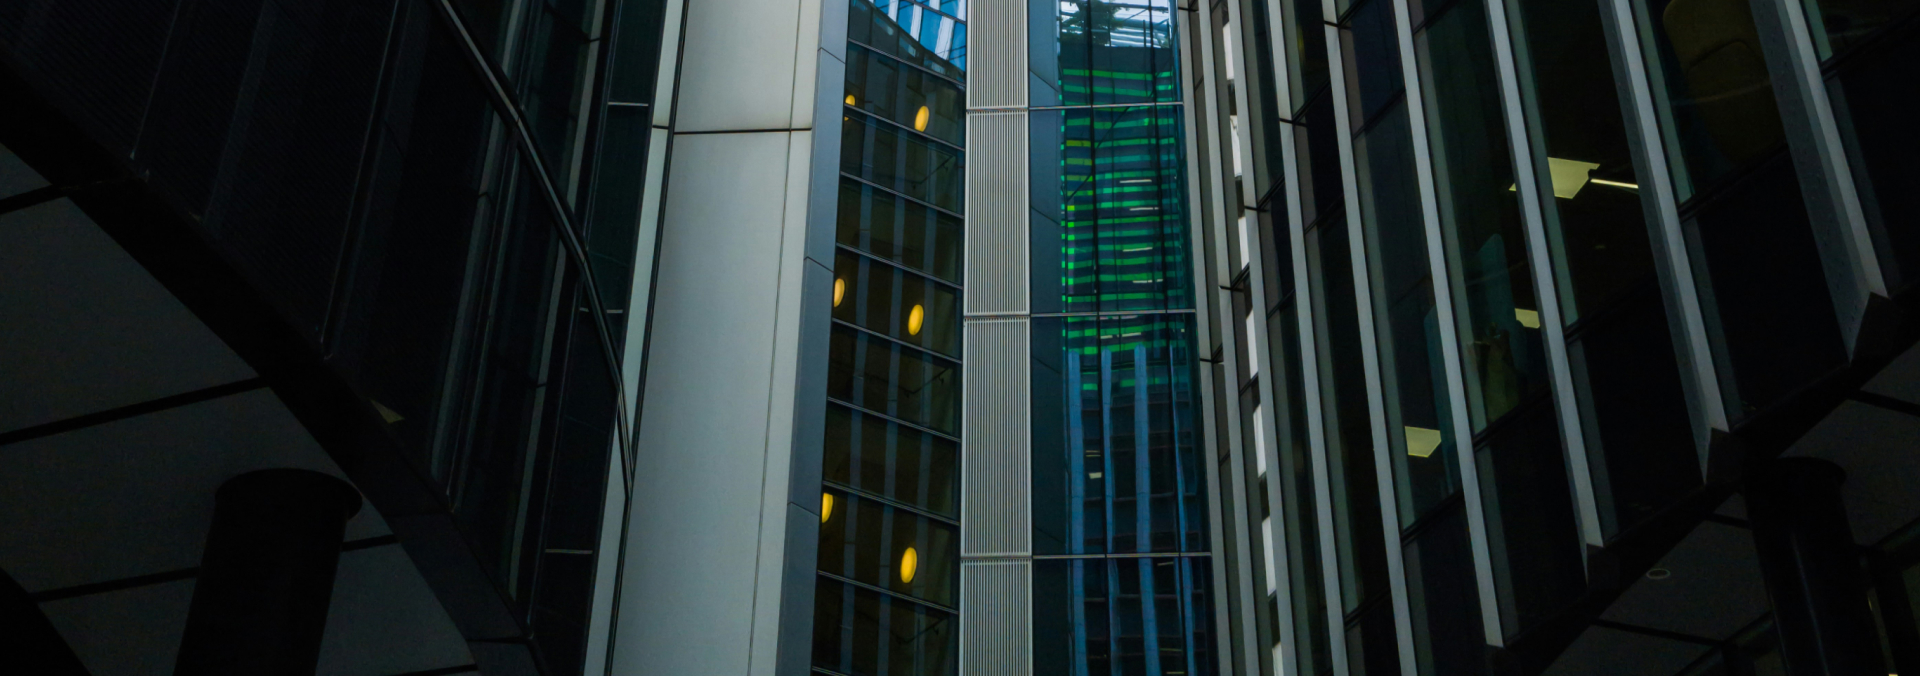
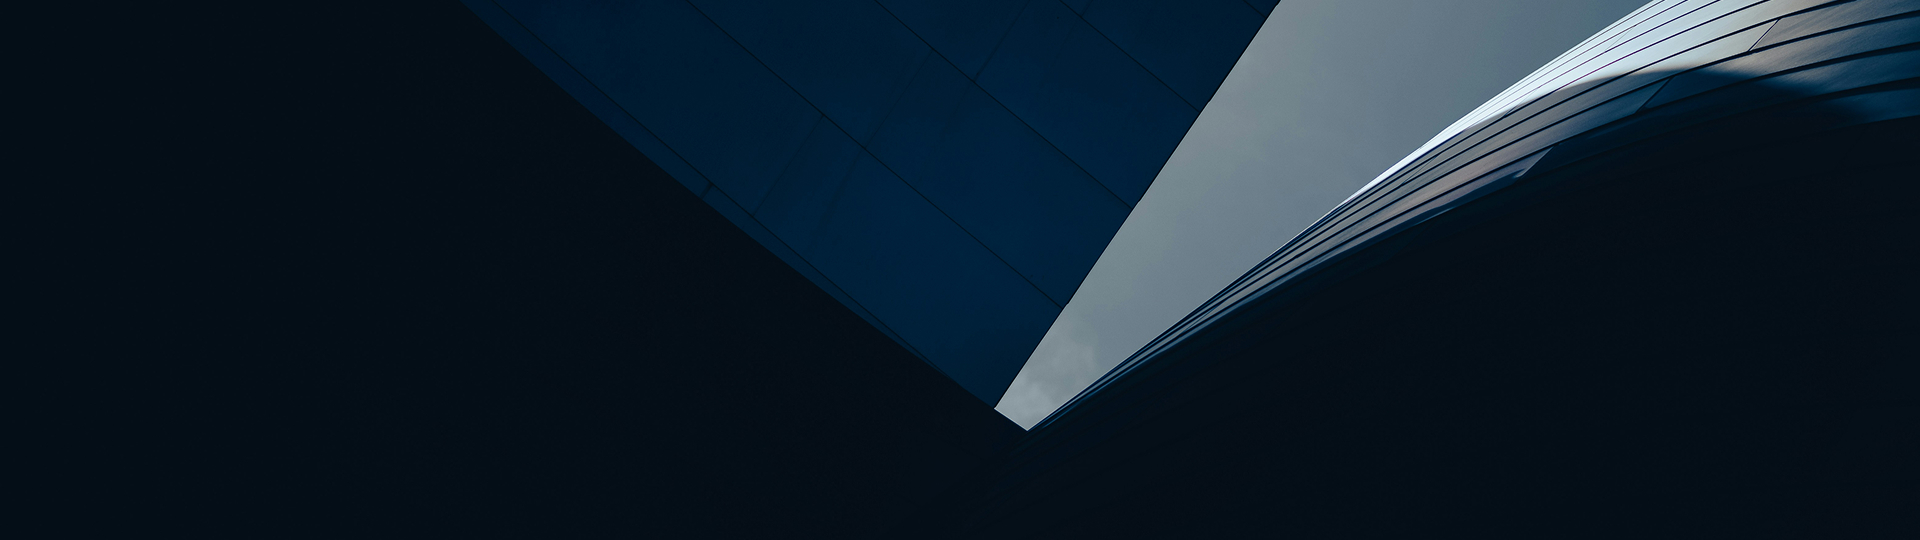
인프라 삭제+사진 바꾸기+아이콘 넣기

diff --git a/contents/careers.html b/contents/careers.html
@@ -10,7 +10,7 @@
     <script src="../js/contents.js"></script>
     <link rel="stylesheet" href="../css/sub.css">
     <link rel="shortcut icon" type="image/x-icon" href="../favicon.svg">
-    <title>보유장비 > infra - 에이티비</title>
+    <title>채용절차/인재상 > 채용안내 - 에이티비</title>
     <!-- 서브페이지의 타이틀에는 현재메뉴명 > 상위메뉴명 - 사이트명 -->
 </head>
 <body>
@@ -43,13 +43,6 @@
                                 <li><a href="biz03.html"><span>반도체 장비/공장 자동화</span></a></li>
                                 <li><a href="biz04.html"><span>시험장치/치공구</span></a></li>
                                 <li><a href="biz05.html"><span>기타보유기술</span></a></li>
-                            </ul>
-                        </li>
-                        <li>
-                            <a href="infra.html"><span>INFRA</span></a>
-                            <ul class="depth2">
-                                <li><a href="infra.html"><span>보유장비</span></a></li>
-                                <li><a href="view.html"><span>사업장 전경</span></a></li>
                             </ul>
                         </li>
                         <li>
@@ -97,7 +90,7 @@
 
                                 <li>
                                     <div class="career_step_icon">
-                                        <img src="../images/contents/career_icon01.png" alt="">
+                                        <img src="../images/contents/career_icon01.svg" alt="">
                                     </div>
                                     <span class="career_step_num">01</span>
                                     <strong>지원서 접수</strong>
@@ -105,7 +98,7 @@
 
                                 <li>
                                     <div class="career_step_icon">
-                                        <img src="../images/contents/career_icon02.png" alt="">
+                                        <img src="../images/contents/career_icon02.svg" alt="">
                                     </div>
                                     <span class="career_step_num">02</span>
                                     <strong>서류 전형</strong>
@@ -113,7 +106,7 @@
 
                                 <li>
                                     <div class="career_step_icon">
-                                        <img src="../images/contents/career_icon03.png" alt="">
+                                        <img src="../images/contents/career_icon03.svg" alt="">
                                     </div>
                                     <span class="career_step_num">03</span>
                                     <strong>면접 전형</strong>
@@ -121,7 +114,7 @@
 
                                 <li>
                                     <div class="career_step_icon">
-                                        <img src="../images/contents/career_icon04.png" alt="">
+                                        <img src="../images/contents/career_icon04.svg" alt="">
                                     </div>
                                     <span class="career_step_num">04</span>
                                     <strong>최종 합격</strong>

diff --git a/contents/recruit.html b/contents/recruit.html
@@ -10,7 +10,7 @@
     <script src="../js/contents.js"></script>
     <link rel="stylesheet" href="../css/sub.css">
     <link rel="shortcut icon" type="image/x-icon" href="../favicon.svg">
-    <title>보유장비 > infra - 에이티비</title>
+    <title>채용공고 > 채용안내 - 에이티비</title>
     <!-- 서브페이지의 타이틀에는 현재메뉴명 > 상위메뉴명 - 사이트명 -->
 </head>
 <body>
@@ -43,13 +43,6 @@
                                 <li><a href="biz03.html"><span>반도체 장비/공장 자동화</span></a></li>
                                 <li><a href="biz04.html"><span>시험장치/치공구</span></a></li>
                                 <li><a href="biz05.html"><span>기타보유기술</span></a></li>
-                            </ul>
-                        </li>
-                        <li>
-                            <a href="infra.html"><span>INFRA</span></a>
-                            <ul class="depth2">
-                                <li><a href="infra.html"><span>보유장비</span></a></li>
-                                <li><a href="view.html"><span>사업장 전경</span></a></li>
                             </ul>
                         </li>
                         <li>

diff --git a/index.html b/index.html
@@ -51,13 +51,6 @@
                             </ul>
                         </li>
                         <li>
-                            <a href="contents/infra.html"><span>INFRA</span></a>
-                            <ul class="depth2">
-                                <li><a href="contents/infra.html"><span>보유장비</span></a></li>
-                                <li><a href="contents/view.html"><span>사업장 전경</span></a></li>
-                            </ul>
-                        </li>
-                        <li>
                             <a href="contents/careers.html"><span>CAREERS</span></a>
                             <ul class="depth2">
                                 <li><a href="contents/careers.html"><span>채용안내</span></a></li>

diff --git a/css/sub.css b/css/sub.css
@@ -94,7 +94,7 @@ header .gnb .gnb_wrap ul.depth1 > li.active.over > ul.depth2 > li.active > a {
     font-size: 2.6471rem; /*45px*/
     font-weight: 700;
     line-height: 1.2;
-    padding: 7.7333em 0 0 0; /*348px- 45px 기준으로 환산*/
+    padding: 7em 0 0 0; /*348px- 45px 기준으로 환산*/
 }
 .sub_visual .snb {
     position: absolute; /*sub_visual을 기준으로 정렬*/
@@ -145,7 +145,7 @@ header .gnb .gnb_wrap ul.depth1 > li.active.over > ul.depth2 > li.active > a {
 @media screen and (max-width:1300px){ /*16px*/
     .sub_visual .sub_txt span {
         font-size: 2.5rem; /*40px*/
-        padding: 9em 0 0 0; /*360px- 40px 기준으로 환산*/
+        padding: 7em 0 0 0; /*360px- 40px 기준으로 환산*/
     }
 } /* @media */
 

diff --git a/contents/biz01.html b/contents/biz01.html
@@ -46,13 +46,6 @@
                             </ul>
                         </li>
                         <li>
-                            <a href="infra.html"><span>INFRA</span></a>
-                            <ul class="depth2">
-                                <li><a href="infra.html"><span>보유장비</span></a></li>
-                                <li><a href="view.html"><span>사업장 전경</span></a></li>
-                            </ul>
-                        </li>
-                        <li>
                             <a href="careers.html"><span>CAREERS</span></a>
                             <ul class="depth2">
                                 <li><a href="careers.html"><span>채용안내</span></a></li>

diff --git a/contents/biz02.html b/contents/biz02.html
@@ -46,13 +46,6 @@
                             </ul>
                         </li>
                         <li>
-                            <a href="infra.html"><span>INFRA</span></a>
-                            <ul class="depth2">
-                                <li><a href="infra.html"><span>보유장비</span></a></li>
-                                <li><a href="view.html"><span>사업장 전경</span></a></li>
-                            </ul>
-                        </li>
-                        <li>
                             <a href="careers.html"><span>CAREERS</span></a>
                             <ul class="depth2">
                                 <li><a href="careers.html"><span>채용안내</span></a></li>

diff --git a/contents/biz03.html b/contents/biz03.html
@@ -46,13 +46,6 @@
                             </ul>
                         </li>
                         <li>
-                            <a href="infra.html"><span>INFRA</span></a>
-                            <ul class="depth2">
-                                <li><a href="infra.html"><span>보유장비</span></a></li>
-                                <li><a href="view.html"><span>사업장 전경</span></a></li>
-                            </ul>
-                        </li>
-                        <li>
                             <a href="careers.html"><span>CAREERS</span></a>
                             <ul class="depth2">
                                 <li><a href="careers.html"><span>채용안내</span></a></li>

diff --git a/contents/biz04.html b/contents/biz04.html
@@ -46,13 +46,6 @@
                             </ul>
                         </li>
                         <li>
-                            <a href="infra.html"><span>INFRA</span></a>
-                            <ul class="depth2">
-                                <li><a href="infra.html"><span>보유장비</span></a></li>
-                                <li><a href="view.html"><span>사업장 전경</span></a></li>
-                            </ul>
-                        </li>
-                        <li>
                             <a href="careers.html"><span>CAREERS</span></a>
                             <ul class="depth2">
                                 <li><a href="careers.html"><span>채용안내</span></a></li>

diff --git a/contents/biz05.html b/contents/biz05.html
@@ -46,13 +46,6 @@
                             </ul>
                         </li>
                         <li>
-                            <a href="infra.html"><span>INFRA</span></a>
-                            <ul class="depth2">
-                                <li><a href="infra.html"><span>보유장비</span></a></li>
-                                <li><a href="view.html"><span>사업장 전경</span></a></li>
-                            </ul>
-                        </li>
-                        <li>
                             <a href="careers.html"><span>CAREERS</span></a>
                             <ul class="depth2">
                                 <li><a href="careers.html"><span>채용안내</span></a></li>

diff --git a/contents/certif.html b/contents/certif.html
@@ -46,13 +46,6 @@
                             </ul>
                         </li>
                         <li>
-                            <a href="infra.html"><span>INFRA</span></a>
-                            <ul class="depth2">
-                                <li><a href="infra.html"><span>보유장비</span></a></li>
-                                <li><a href="view.html"><span>사업장 전경</span></a></li>
-                            </ul>
-                        </li>
-                        <li>
                             <a href="careers.html"><span>CAREERS</span></a>
                             <ul class="depth2">
                                 <li><a href="careers.html"><span>채용안내</span></a></li>

diff --git a/contents/history.html b/contents/history.html
@@ -46,13 +46,6 @@
                             </ul>
                         </li>
                         <li>
-                            <a href="infra.html"><span>INFRA</span></a>
-                            <ul class="depth2">
-                                <li><a href="infra.html"><span>보유장비</span></a></li>
-                                <li><a href="view.html"><span>사업장 전경</span></a></li>
-                            </ul>
-                        </li>
-                        <li>
                             <a href="careers.html"><span>CAREERS</span></a>
                             <ul class="depth2">
                                 <li><a href="careers.html"><span>채용안내</span></a></li>

diff --git a/contents/info.html b/contents/info.html
@@ -46,13 +46,6 @@
                             </ul>
                         </li>
                         <li>
-                            <a href="infra.html"><span>INFRA</span></a>
-                            <ul class="depth2">
-                                <li><a href="infra.html"><span>보유장비</span></a></li>
-                                <li><a href="view.html"><span>사업장 전경</span></a></li>
-                            </ul>
-                        </li>
-                        <li>
                             <a href="careers.html"><span>CAREERS</span></a>
                             <ul class="depth2">
                                 <li><a href="careers.html"><span>채용안내</span></a></li>
